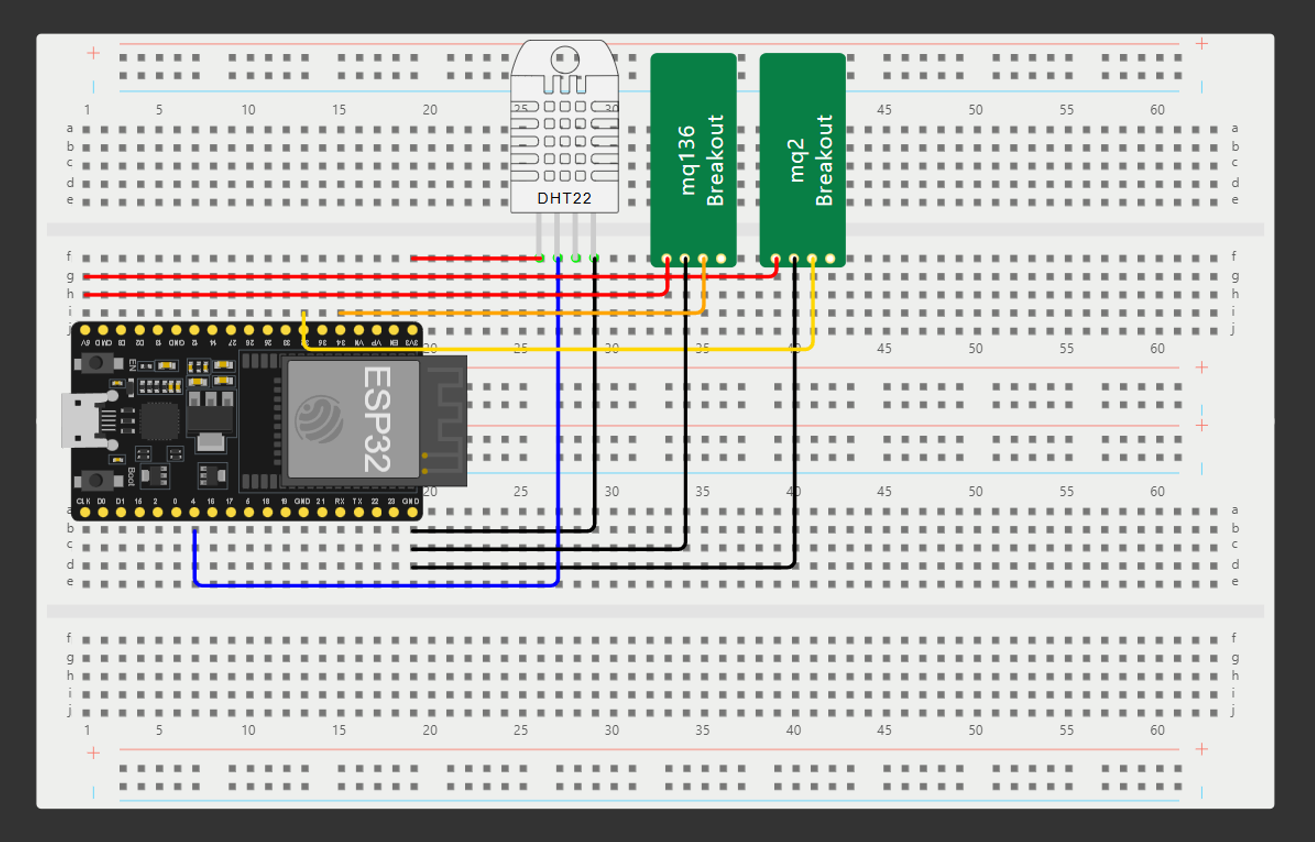
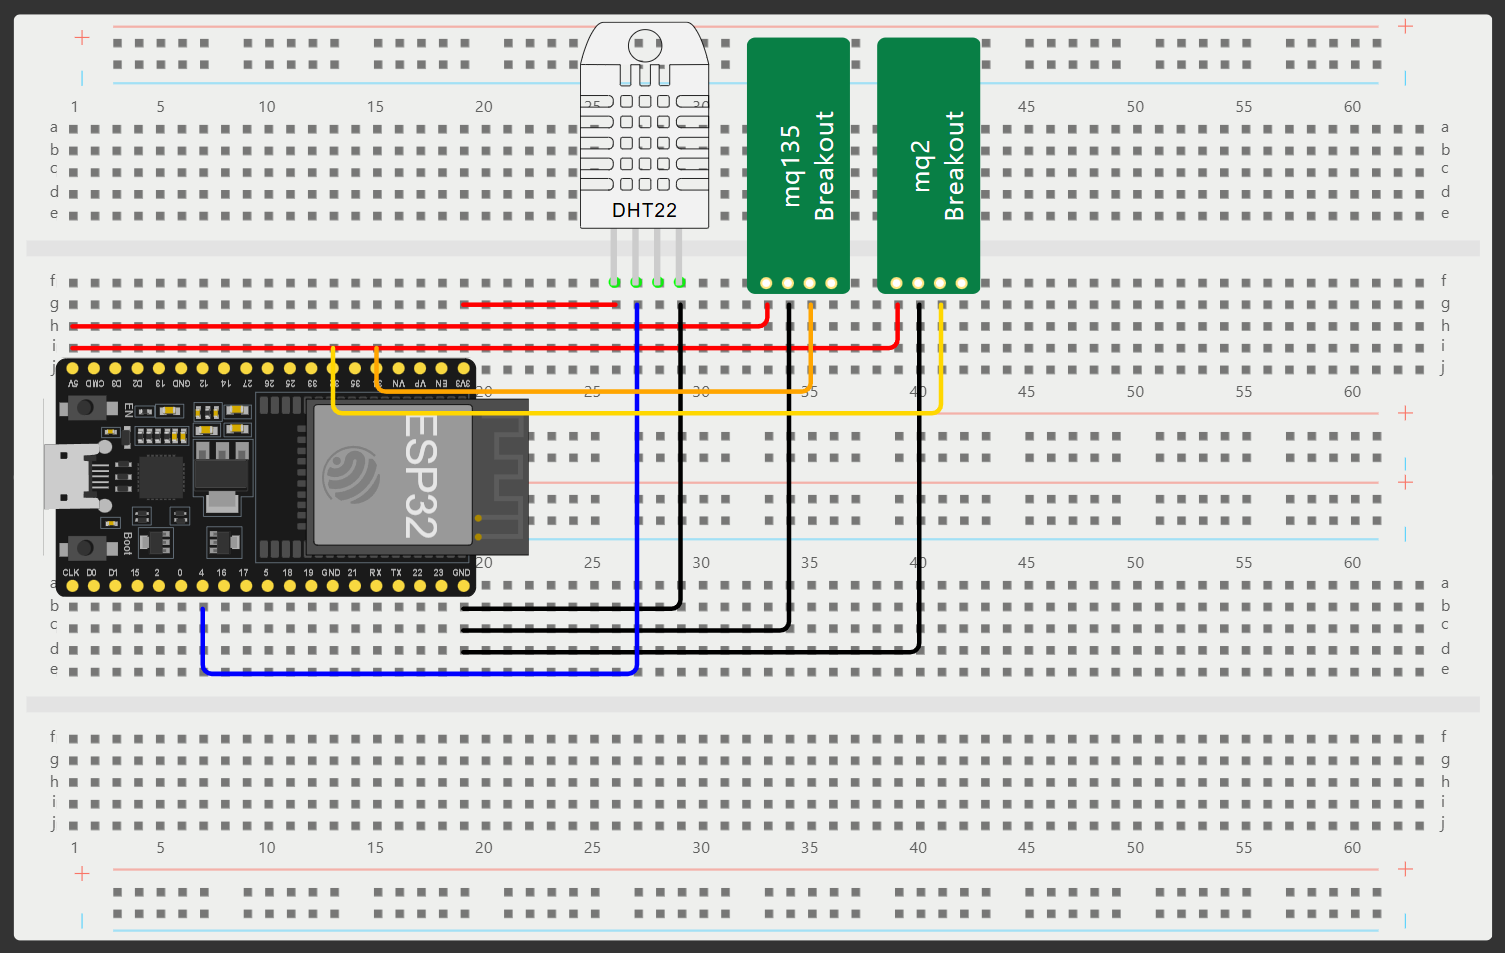
Change sensor to MQ-135

diff --git a/dashboard.py b/dashboard.py
@@ -19,7 +19,7 @@ if __name__ == '__main__':
     DB_USER = str(os.getenv('DB_USER'))
     DB_PASS = str(os.getenv('DB_PASS'))
     DB_PORT = int(os.getenv('DB_PORT'))
-    DB_COLUMNS_1 = ('timestamp', 'temperature', 'humidity', 'mq2', 'mq136', 'category')
+    DB_COLUMNS_1 = ('timestamp', 'temperature', 'humidity', 'mq2', 'mq135', 'category')
     DB_COLUMNS_2 = ('id', 'category', 'title', 'short_desc', 'content', 'image_url', 'published_at')
 
     db = Database(host=DB_HOST, user=DB_USER, password=DB_PASS, db=DB_NAME, port=DB_PORT)
@@ -85,9 +85,9 @@ if __name__ == '__main__':
 
     # Pengaturan auto-refresh
     if "sleep_time" not in st.session_state:
-        st.session_state.sleep_time = 2
+        st.session_state.sleep_time = 5
     if "auto_refresh" not in st.session_state:
-        st.session_state.auto_refresh = False
+        st.session_state.auto_refresh = True
 
     with st.sidebar.expander("Konfigurasi Dasbor", expanded=True):
         auto_refresh = st.checkbox('Auto Refresh?', st.session_state.auto_refresh)
@@ -167,14 +167,14 @@ if __name__ == '__main__':
             st.write("### Grafik Kualitas Udara")
             
             st.write("#### MQ2")
-            st.write("Grafik ini menunjukkan perubahan tingkat gas MQ2 (metana, propana, dan LPG) di udara.")
+            st.write("Grafik ini menunjukkan perubahan tingkat gas yang terdeteksi oleh sensor MQ-2 (gas mudah terbakar) di udara.")
             fig_mq2 = px.line(data_filtered, x='timestamp', y='mq2', labels={'value': 'MQ2 (ppm)'}, title='Grafik MQ2')
             st.plotly_chart(fig_mq2)
 
-            st.write("#### MQ136")
-            st.write("Grafik ini menunjukkan perubahan tingkat gas MQ136 (gas amonia) di udara.")
-            fig_mq136 = px.line(data_filtered, x='timestamp', y='mq136', labels={'value': 'MQ136 (ppm)'}, title='Grafik MQ136')
-            st.plotly_chart(fig_mq136)
+            st.write("#### MQ135")
+            st.write("Grafik ini menunjukkan perubahan tingkat gas yang terdeteksi oleh sensor MQ-135 (gas atau asap berbahaya) di udara.")
+            fig_mq135 = px.line(data_filtered, x='timestamp', y='mq135', labels={'value': 'MQ135 (ppm)'}, title='Grafik MQ135')
+            st.plotly_chart(fig_mq135)
             
             st.write("#### Suhu")
             st.write("Grafik ini menunjukkan perubahan suhu udara dalam ruangan.")

diff --git a/mqtt.py b/mqtt.py
@@ -24,13 +24,13 @@ class MQTT:
 
         self.db = db
         self.DB_TABLE = 'air_quality'
-        self.DB_COLUMNS = ('timestamp', 'temperature', 'humidity', 'mq2', 'mq136', 'category')
+        self.DB_COLUMNS = ('timestamp', 'temperature', 'humidity', 'mq2', 'mq135', 'category')
         
         self.model = model
         self.AIR_QUALITY = ['BAIK', 'SEDANG', 'TIDAK SEHAT']
     
     def __on_connect(self, client, userdata, flags, reason_code, properties):
-        print(f"Connected with result code {reason_code}")
+        print(f"Connected to MQTT broker with result code: {reason_code}")
         client.subscribe(self.topic)
 
     def __on_message(self, client, userdata, msg):
@@ -42,20 +42,20 @@ class MQTT:
         temperature = float(payload['temperature'])
         humidity = float(payload['humidity'])
         mq2 = int(payload['mq2'])
-        mq136 = int(payload['mq136'])
+        mq135 = int(payload['mq135'])
 
         # Change seconds to local datetime
         timestamp = datetime.fromtimestamp(time, tz=pytz.timezone('Asia/Jakarta'))
         timestamp = timestamp.strftime('%Y-%m-%d %H:%M:%S')
 
         # Perform classification using machine learning
-        feature = pd.DataFrame([{'mq2':mq2, 'mq136':mq136}])
+        feature = pd.DataFrame([{'mq2': mq2, 'mq135': mq135}])
         category = self.AIR_QUALITY[self.model.predict(feature)[0]]
         print(f"[INFO] Successfully classified air quality as: {category}")
 
         # Store the data to database
         insert_query = f"INSERT INTO {self.DB_TABLE} ({', '.join(self.DB_COLUMNS)}) VALUES (%s, %s, %s, %s, %s, %s)"
-        self.db.insert(insert_query, (timestamp, temperature, humidity, mq2, mq136, category))
+        self.db.insert(insert_query, (timestamp, temperature, humidity, mq2, mq135, category))
         print('[INFO] Successfully sent data to the database')
 
 
@@ -79,4 +79,7 @@ if __name__ == '__main__':
     db = Database(host=DB_HOST, user=DB_USER, password=DB_PASS, db=DB_NAME, port=DB_PORT)
     mqtt = MQTT(MQTT_BROKER, MQTT_PORT, MQTT_TOPIC, MQTT_KEEP_ALIVE, db, model)
 
-    mqtt.client.loop_forever()
+    try:
+        mqtt.client.loop_forever()
+    except KeyboardInterrupt:
+        pass

diff --git a/helper.py b/helper.py
@@ -13,7 +13,7 @@ class Helper:
             'temperature': 'float64',
             'humidity': 'float64',
             'mq2': 'int64',
-            'mq136': 'int64',
+            'mq135': 'int64',
             'category': 'category'
         })
 
